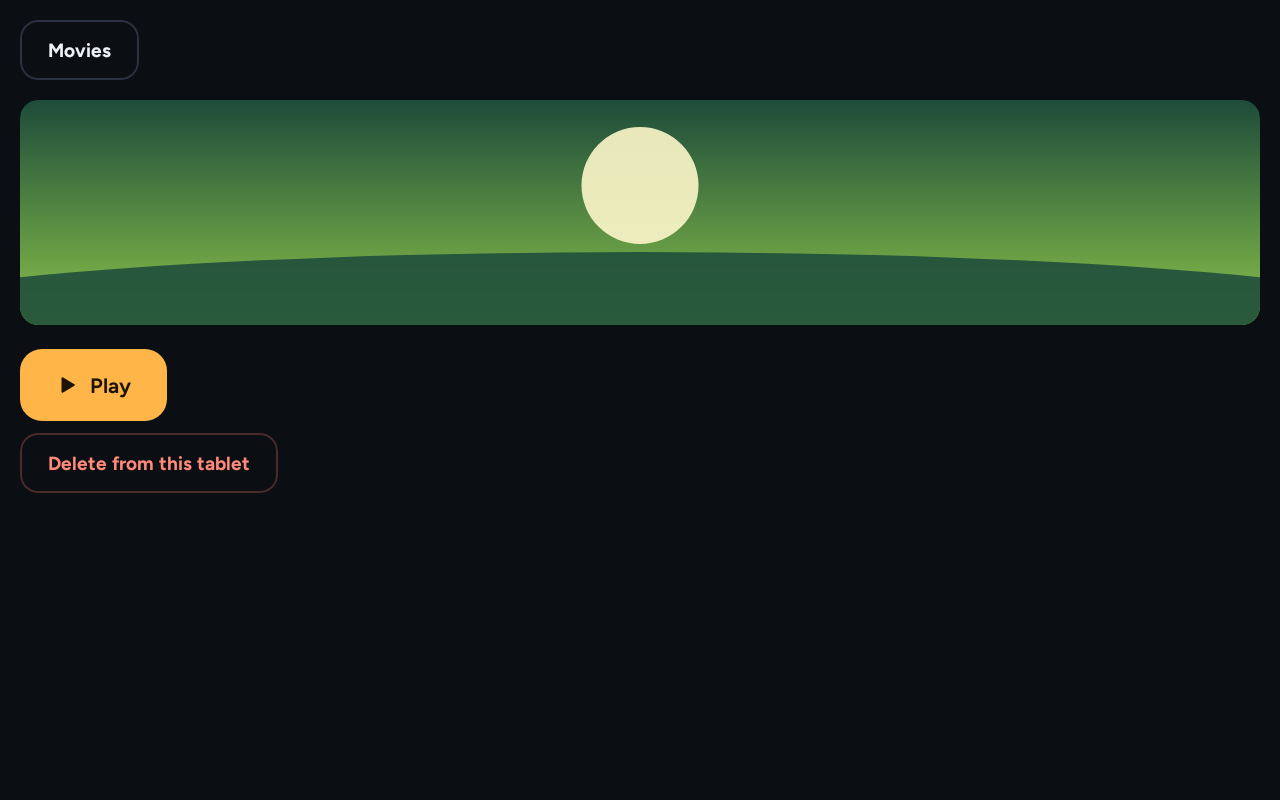
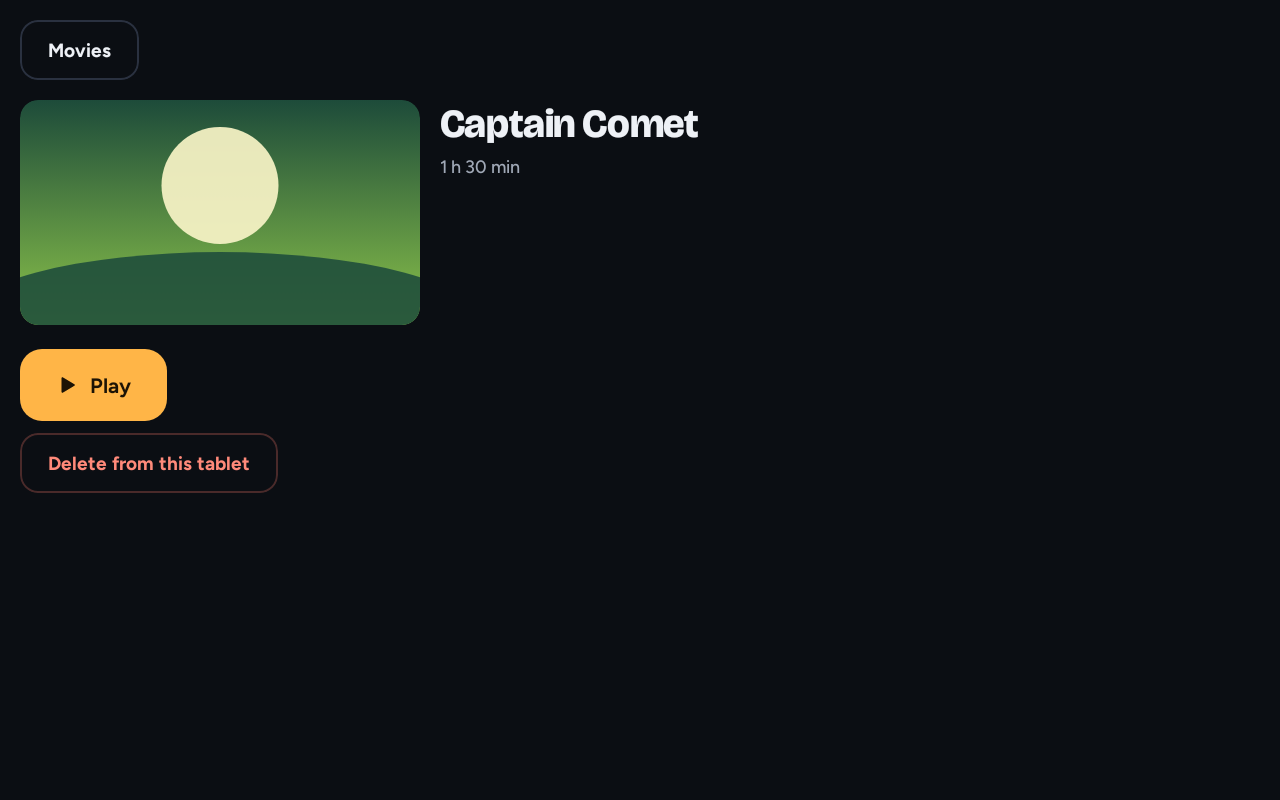
fix delete review findings: close pick panel, order wait flag, stop before unlink, size thumbnail

Changed region(s): [[0.0312, 0.125, 1.0, 0.4062]]

diff --git a/app/src/main/java/com/nbaltas/nickos/ui/master/TabletLibrary.kt b/app/src/main/java/com/nbaltas/nickos/ui/master/TabletLibrary.kt
@@ -13,6 +13,7 @@ import androidx.compose.foundation.layout.fillMaxSize
 import androidx.compose.foundation.layout.fillMaxWidth
 import androidx.compose.foundation.layout.height
 import androidx.compose.foundation.layout.padding
+import androidx.compose.foundation.layout.width
 import androidx.compose.foundation.lazy.grid.GridCells
 import androidx.compose.foundation.lazy.grid.LazyVerticalGrid
 import androidx.compose.foundation.lazy.grid.items
@@ -86,12 +87,17 @@ fun TabletLibrary(nodeId: String, v: NodeView, onPlayed: () -> Unit, onSettings:
     val library = remember(videosMap) { sync.library() }
     val mine = remember(library) { Library.ownedBy(library, nodeId) }
     var segment by remember { mutableStateOf(0) }
-    var openItem by remember { mutableStateOf<LibraryItem?>(null) }
+    var openFid by remember { mutableStateOf<String?>(null) }
+    // The open movie is looked up in the current library every time, so one that was just deleted
+    // closes the panel instead of leaving Play and Delete on screen.
+    val openItem = openItemFor(mine, openFid)
+    LaunchedEffect(openFid, openItem == null) { if (openFid != null && openItem == null) openFid = null }
 
-    openItem?.let { item ->
-        TabletPickPanel(item, nodeId, thumbs[item.fid], sync, transfer, canDelete = v.status?.supportsDelete == true, onBack = { openItem = null })
+    if (openItem != null) {
+        TabletPickPanel(openItem, nodeId, thumbs[openItem.fid], sync, transfer, canDelete = v.status?.supportsDelete == true, onBack = { openFid = null })
         return
     }
+    if (openFid != null) return // closing: the effect above clears it on the next frame
 
     Column(Modifier.fillMaxSize().padding(20.dp)) {
         val visible = if (segment == 0) Library.movies(mine) else mine.filter { it.episode != null }
@@ -131,7 +137,7 @@ fun TabletLibrary(nodeId: String, v: NodeView, onPlayed: () -> Unit, onSettings:
             ) {
                 items(visible, key = { it.fid }) { item ->
                     Column(
-                        Modifier.clickable { openItem = item },
+                        Modifier.clickable { openFid = item.fid },
                         verticalArrangement = Arrangement.spacedBy(6.dp),
                     ) {
                         MovieThumb(thumbs[item.fid], item.title, Modifier.height(148.dp).fillMaxWidth())
@@ -143,6 +149,9 @@ fun TabletLibrary(nodeId: String, v: NodeView, onPlayed: () -> Unit, onSettings:
         }
     }
 }
+
+/** The movie [fid] as this tablet's library has it now, or null when none is open or it is gone. */
+internal fun openItemFor(mine: List<LibraryItem>, fid: String?): LibraryItem? = fid?.let { f -> mine.firstOrNull { it.fid == f } }
 
 @Composable
 internal fun TabletPickPanel(
@@ -169,8 +178,8 @@ internal fun TabletPickPanel(
         NickButton("Movies", onBack, style = BtnStyle.GHOST)
         Spacer(Modifier.height(20.dp))
         Row(horizontalArrangement = Arrangement.spacedBy(20.dp)) {
-            MovieThumb(thumb, item.title, Modifier.height(225.dp)
-                .then(Modifier), showTitle = false)
+            // A fixed 16:9 size: without a width the picture stretched across the row and pushed the title off screen.
+            MovieThumb(thumb, item.title, Modifier.height(225.dp).width(400.dp), showTitle = false)
             Column(verticalArrangement = Arrangement.spacedBy(8.dp)) {
                 item.episode?.let { EyebrowText(TogetherText.episodeLine(it)) }
                 Title(item.title, 40, lineHeight = 1.05f)

diff --git a/app/src/main/java/com/nbaltas/nickos/node/SyncPlayer.kt b/app/src/main/java/com/nbaltas/nickos/node/SyncPlayer.kt
@@ -88,6 +88,7 @@ class SyncPlayer(
 
     /** `sync`: load [SyncMessages.SyncCmdMsg.fid] if it is not loaded yet, then follow the anchor. */
     fun onSync(msg: SyncMessages.SyncCmdMsg) {
+        val at = forgetGate.now()
         // Looked up here, off the main thread: a miss rescans the library.
         val video = videos.find(msg.fid, rescan = false) ?: videos.find(msg.fid)
         // Bring the player to the front for a new movie or a resume, not for the minute re-anchor.
@@ -95,7 +96,23 @@ class SyncPlayer(
             device.wake()
             if (!homeVisible()) device.goHome()
         } catch (e: Exception) { Log.w(TAG, "front", e) }
-        main.post { apply(msg, video) }
+        // A delete that ran after the lookup makes this load a no-op: the file it found is gone.
+        main.post { if (!forgetGate.stale(msg.fid, at)) apply(msg, video) }
+    }
+
+    private val forgetGate = ForgetGate()
+
+    /**
+     * The movie [fid] is about to be deleted. On the main thread, in order with every queued
+     * `sync`: stop if it is the loaded one, and make any load of it that was already looked up a
+     * no-op. [done] runs on the main thread once that is so; only then is the file removed.
+     */
+    fun forget(fid: String, done: () -> Unit) {
+        main.post {
+            forgetGate.forget(fid)
+            if (this.fid == fid) doStop()
+            done()
+        }
     }
 
     /** The movie loaded right now, or null when nothing is. */

diff --git a/app/src/main/java/com/nbaltas/nickos/node/NodeTogether.kt b/app/src/main/java/com/nbaltas/nickos/node/NodeTogether.kt
@@ -6,7 +6,9 @@ import com.nbaltas.nickos.data.Store
 import com.nbaltas.nickos.link.MediaServer
 import com.nbaltas.nickos.link.WifiHold
 import com.nbaltas.nickos.sync.SyncMessages
+import kotlinx.coroutines.CompletableDeferred
 import kotlinx.coroutines.CoroutineScope
+import kotlinx.coroutines.withTimeoutOrNull
 import kotlinx.coroutines.launch
 import org.json.JSONObject
 
@@ -71,8 +73,12 @@ class NodeTogether(
     private fun videosMessage(): JSONObject = videos.reply().let { SyncMessages.encodeVideos(it.perm, it.list, it.free) }
 
     /** Stops the synced player if it is on [fid], then removes every copy of it. */
-    private fun deleteMovie(fid: String): JSONObject {
-        if (player.currentFid() == fid) player.stop()
+    private suspend fun deleteMovie(fid: String): JSONObject {
+        // The stop and the "ignore a queued load of this movie" run on the main thread in order with
+        // the player's other updates; the file is only removed once they have.
+        val stopped = CompletableDeferred<Unit>()
+        player.forget(fid) { stopped.complete(Unit) }
+        withTimeoutOrNull(3000) { stopped.await() }
         val o = videos.delete(fid)
         return SyncMessages.encodeDeleted(fid, o.ok, o.err, o.removed, videos.freeBytes())
     }

diff --git a/app/src/test/java/com/nbaltas/nickos/node/ForgetGateTest.kt b/app/src/test/java/com/nbaltas/nickos/node/ForgetGateTest.kt
@@ -1,0 +1,40 @@
+package com.nbaltas.nickos.node
+
+import org.junit.Assert.assertFalse
+import org.junit.Assert.assertTrue
+import org.junit.Test
+
+class ForgetGateTest {
+    @Test
+    fun `a load looked up before the delete is stale`() {
+        val g = ForgetGate()
+        val at = g.now()
+        g.forget("f1")
+        assertTrue(g.stale("f1", at))
+    }
+
+    @Test
+    fun `a load looked up after the delete is not stale`() {
+        val g = ForgetGate()
+        g.forget("f1")
+        assertFalse(g.stale("f1", g.now()))
+    }
+
+    @Test
+    fun `other movies and never-deleted movies are untouched`() {
+        val g = ForgetGate()
+        val at = g.now()
+        g.forget("f1")
+        assertFalse(g.stale("f2", at))
+        assertFalse(ForgetGate().stale("f1", 0))
+    }
+
+    @Test
+    fun `a second delete makes lookups since the first stale again`() {
+        val g = ForgetGate()
+        g.forget("f1")
+        val at = g.now()
+        g.forget("f1")
+        assertTrue(g.stale("f1", at))
+    }
+}

diff --git a/app/src/main/java/com/nbaltas/nickos/node/ForgetGate.kt b/app/src/main/java/com/nbaltas/nickos/node/ForgetGate.kt
@@ -1,0 +1,21 @@
+package com.nbaltas.nickos.node
+
+/**
+ * Keeps a `sync` that looked a movie up BEFORE it was deleted from loading it afterwards. A sync
+ * notes [now] when it looks the movie up; a delete calls [forget]; the queued load asks [stale].
+ * A sync that looked up after the delete (the movie was sent again) is not stale. Main thread
+ * for [forget] and [stale]; [now] is a volatile read.
+ */
+class ForgetGate {
+    @Volatile private var gen = 0
+    private val forgotten = HashMap<String, Int>()
+
+    /** The generation to remember when a lookup starts. */
+    fun now(): Int = gen
+
+    /** [fid] is being deleted: every lookup that started so far is stale for it. */
+    fun forget(fid: String) { forgotten[fid] = ++gen }
+
+    /** True when a lookup of [fid] made at generation [at] predates its deletion. */
+    fun stale(fid: String, at: Int): Boolean = (forgotten[fid] ?: -1) > at
+}

diff --git a/app/src/test/java/com/nbaltas/nickos/sync/TransferControllerTest.kt b/app/src/test/java/com/nbaltas/nickos/sync/TransferControllerTest.kt
@@ -290,6 +290,25 @@ class TransferControllerTest {
     }
 
     @Test
+    fun `an answer that arrives before send returns still clears the wait`() {
+        has(H, star)
+        port.onSend = { id, _ -> deleted(id, "f1", true) }
+        t.delete("f1", H)
+        assertTrue(!t.deleting(H, "f1"))
+        assertEquals(listOf("Deleted Star Harbour from Hailey"), port.said)
+    }
+
+    @Test
+    fun `the open movie is gone from the pick panel once the delete succeeds`() {
+        has(H, star, comet)
+        val open = { com.nbaltas.nickos.ui.master.openItemFor(Library.ownedBy(sync.library(), H), "f1") }
+        assertEquals("f1", open()!!.fid)
+        t.delete("f1", H)
+        deleted(H, "f1", true)
+        assertNull(open())
+    }
+
+    @Test
     fun `a refused delete says the movie was copied by hand and keeps it in the grid`() {
         has(H, star)
         t.delete("f1", H)

diff --git a/app/src/main/java/com/nbaltas/nickos/master/TransferController.kt b/app/src/main/java/com/nbaltas/nickos/master/TransferController.kt
@@ -93,9 +93,13 @@ class TransferController(
         if (!(port.isOnline(id) && port.status(id)?.supportsDelete == true)) return
         val title = sync.library().firstOrNull { it.fid == fid }?.title ?: "That movie"
         val key = "$id:$fid"
+        // Both records are made BEFORE sending: a reply can arrive on the link's thread before send() returns.
         synchronized(lock) { if (key in pendingDelete) return; pendingDelete[key] = Deleting(title, clock()) }
-        if (port.send(id, SyncMessages.cmdDelete(fid))) _deleting.update { it + key }
-        else synchronized(lock) { pendingDelete -= key }
+        _deleting.update { it + key }
+        if (!port.send(id, SyncMessages.cmdDelete(fid))) {
+            synchronized(lock) { pendingDelete -= key }
+            _deleting.update { it - key }
+        }
     }
 
     /** The blocking half of [send]. */

diff --git a/app/src/test/java/com/nbaltas/nickos/sync/FakeMasterPort.kt b/app/src/test/java/com/nbaltas/nickos/sync/FakeMasterPort.kt
@@ -25,9 +25,13 @@ class FakeMasterPort : MasterPort {
         statuses[id] = NodeStatus.from(o)
     }
 
+    /** Runs inside [send], after the message is recorded: lets a test deliver a reply before send returns. */
+    var onSend: ((String, JSONObject) -> Unit)? = null
+
     override fun send(id: String, o: JSONObject): Boolean {
         if (id !in online) return false
         sent += id to o
+        onSend?.invoke(id, o)
         return true
     }
 
